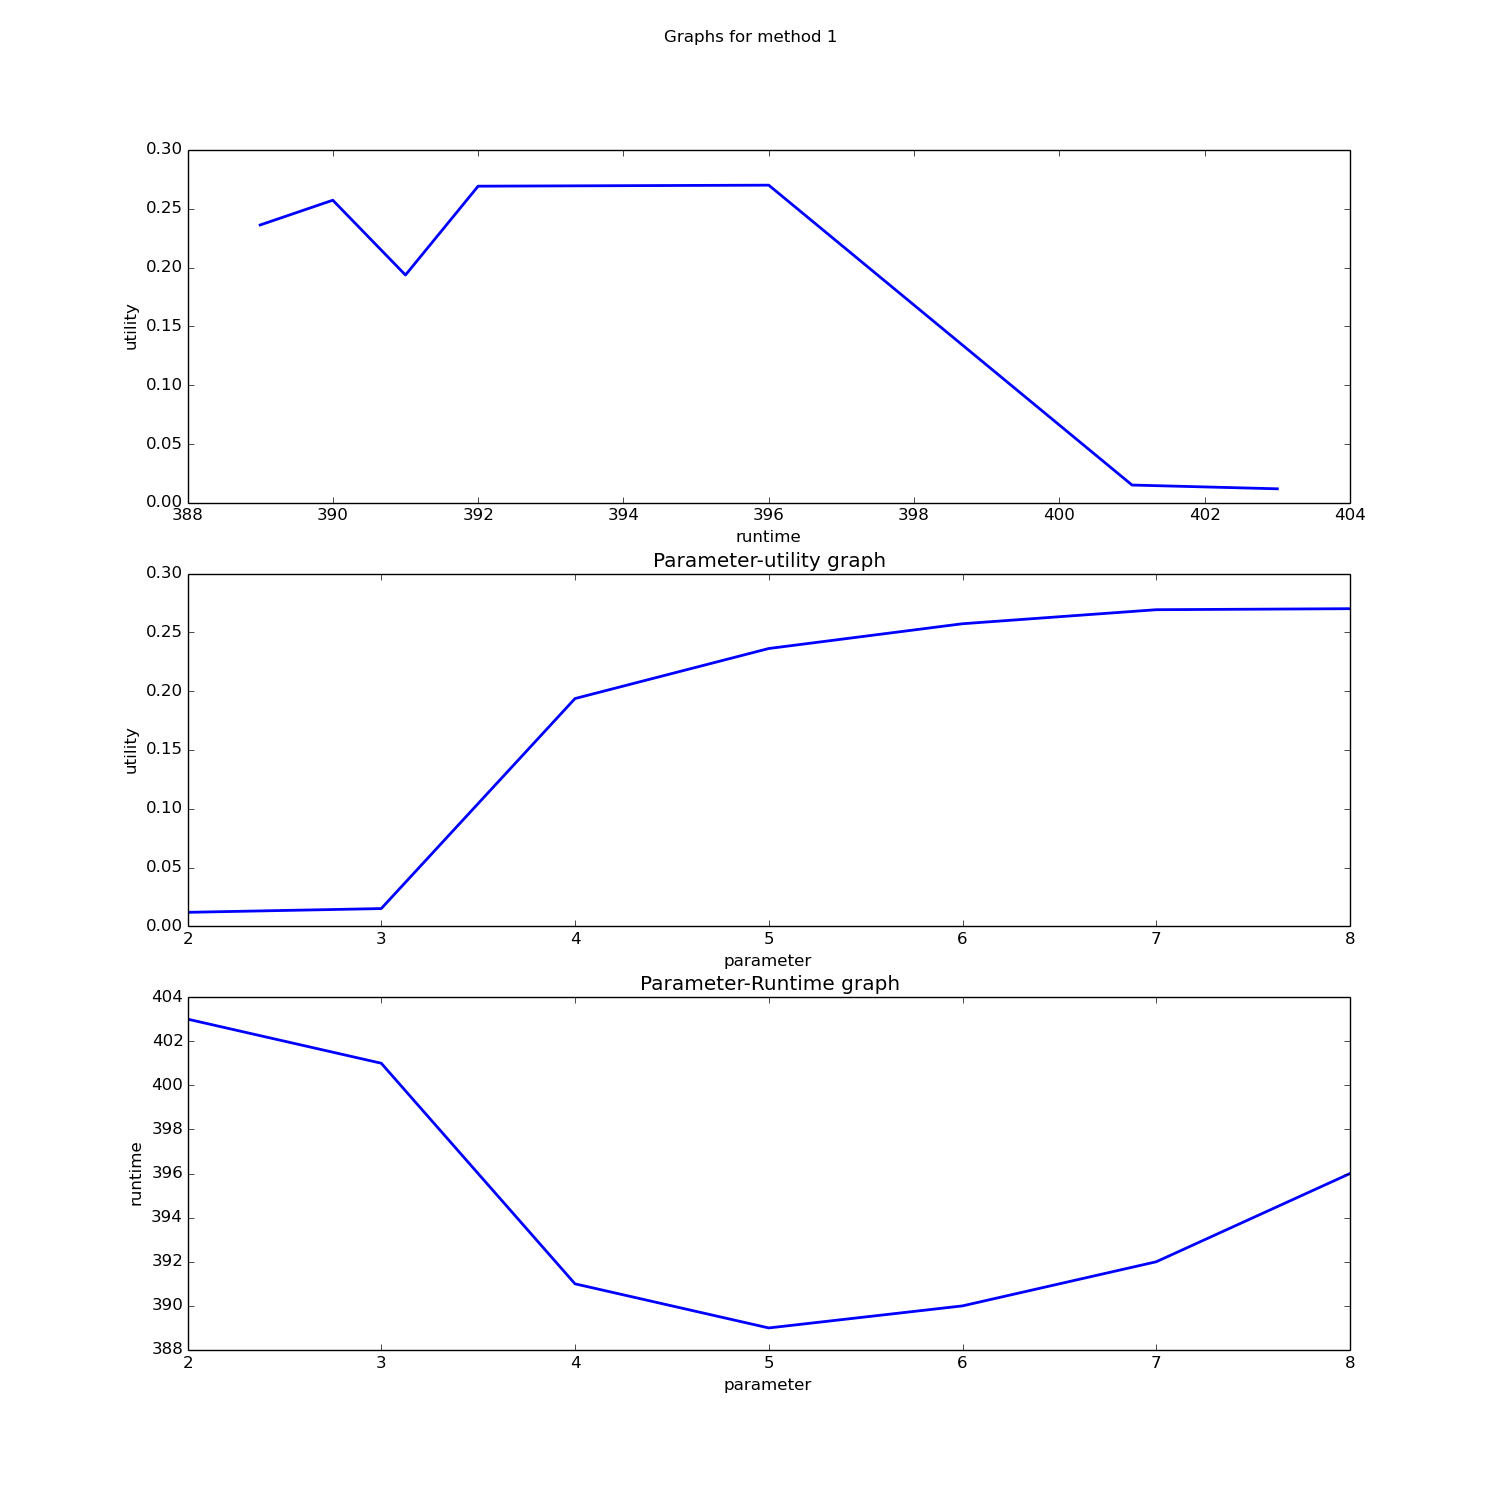
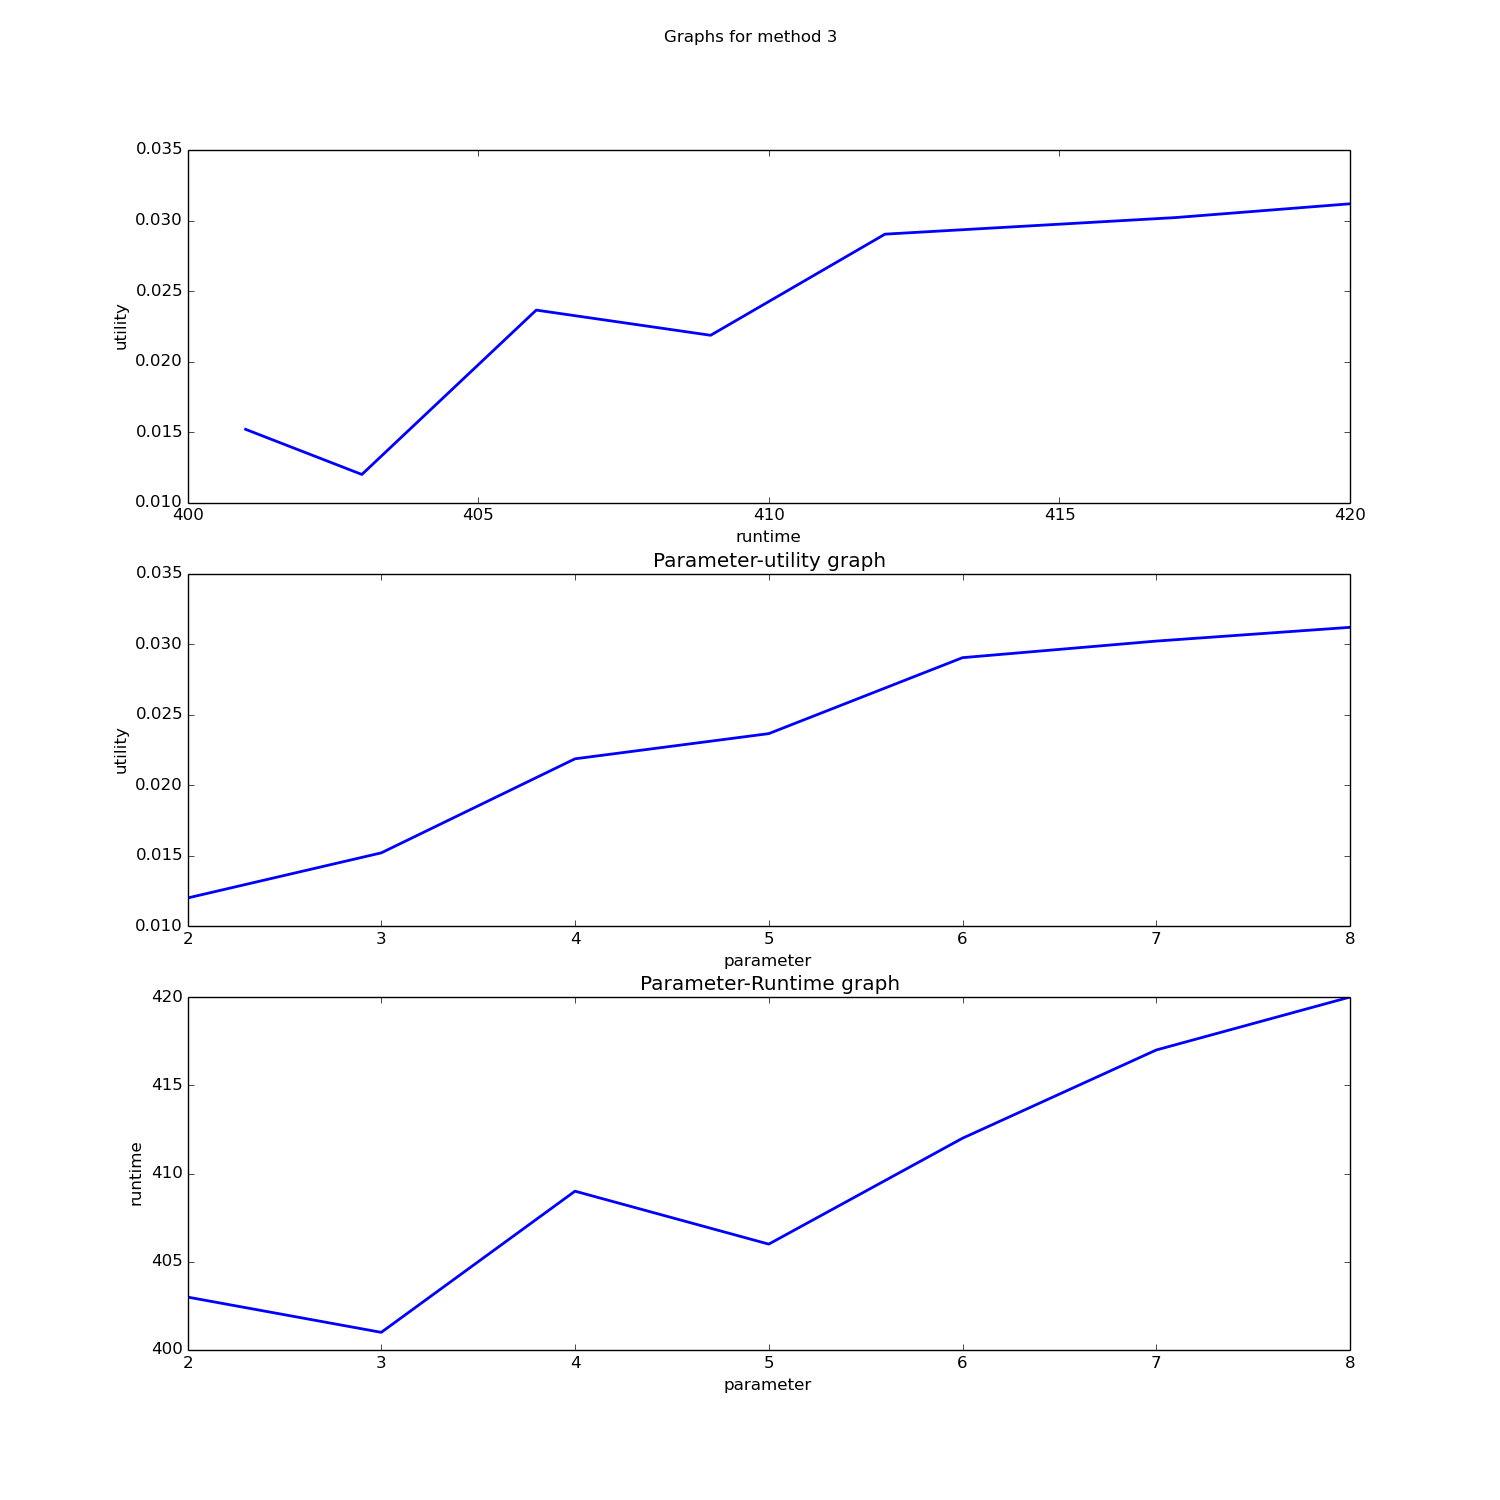
final plots for method 3

diff --git a/method3Plotter.py b/method3Plotter.py
@@ -47,12 +47,12 @@ for j in range(2,9):
 
 plt.figure(0)
 plt.legend()
-plt.savefig("method4Plots.png")
+plt.savefig("method3Plots.png")
 plt.show()
 
 plt.figure(1)
 fig, axs = plt.subplots(3, figsize = (15,15))
-fig.suptitle("Graphs for method 1")
+fig.suptitle("Graphs for method 3")
 axs[1].plot([2,3,4,5,6,7,8], utility)
 axs[1].set(ylabel= 'utility', xlabel= 'parameter')
 axs[1].set_title("Parameter-utility graph")
@@ -63,7 +63,7 @@ lists = sorted(itertools.izip(*[runtime, utility]))
 runtime, utility = list(itertools.izip(*lists))
 axs[0].plot(runtime, utility)
 axs[0].set(ylabel = "utility", xlabel= "runtime")
-plt.savefig("m4_runtime-utilPlot.png")
+plt.savefig("m3_runtime-utilPlot.png")
 plt.show()
 
 
